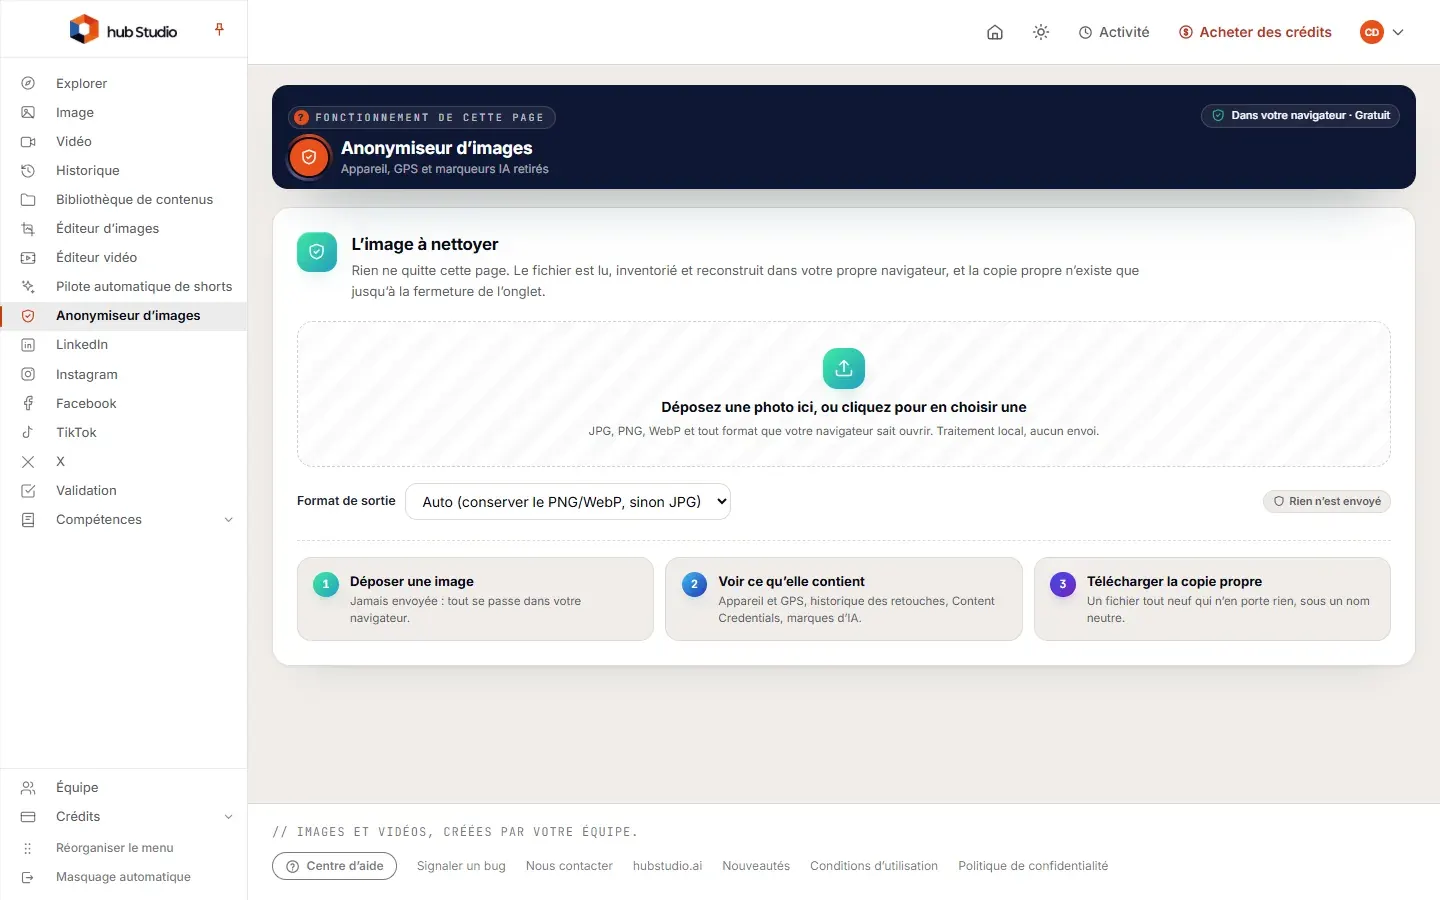
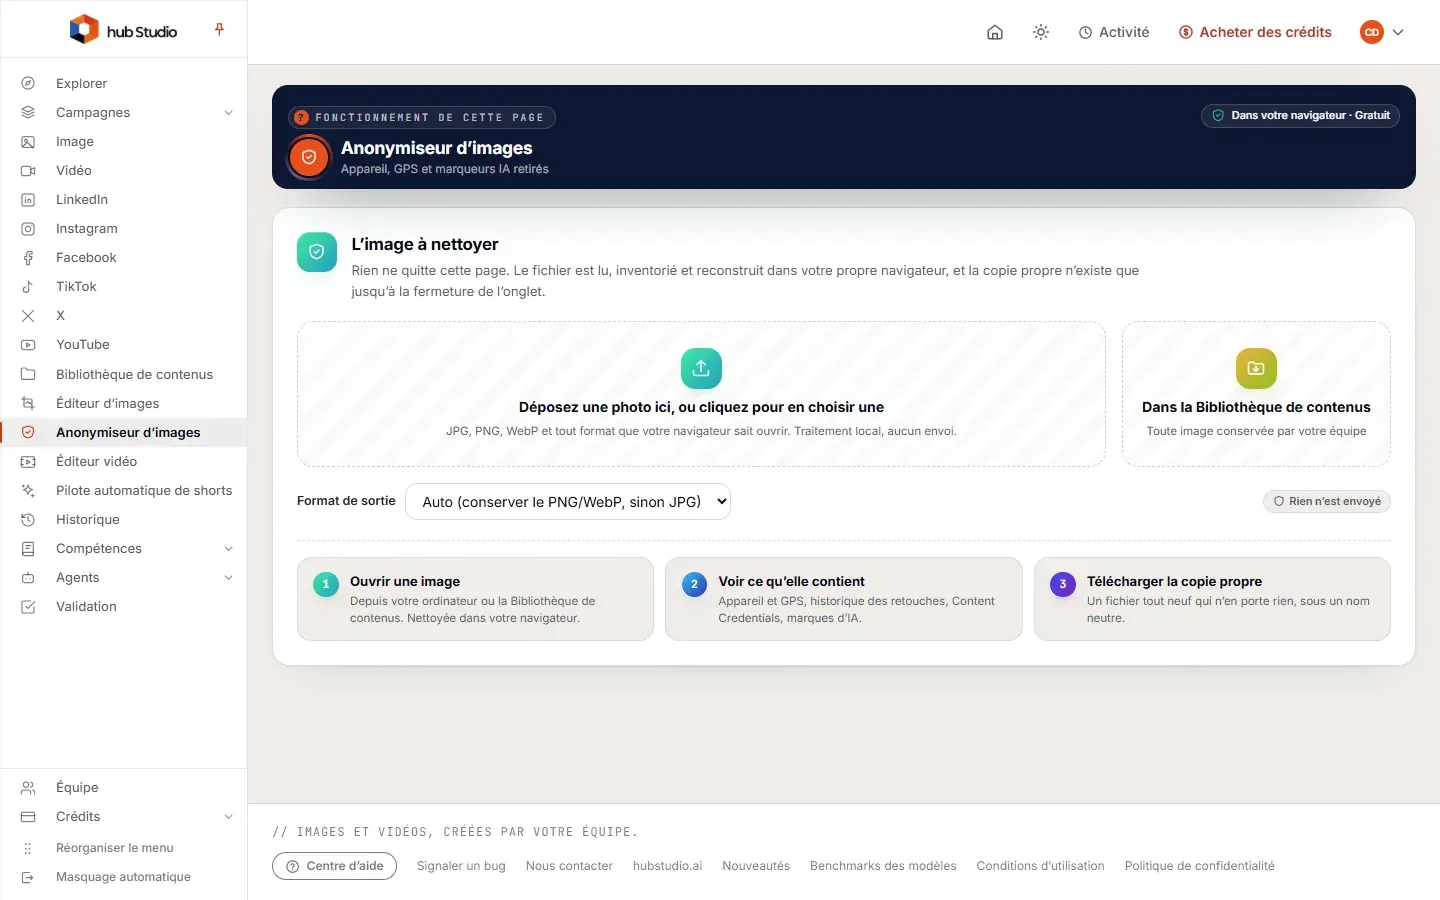
Help (EN/FR/ZH) synced from the app: Image anonymizer reads a picture from the Assets Library (capture retaken in the three languages); Attach the clean picture on LinkedIn, Facebook, Instagram and X posts. Outdated sentence versions dropped from the help dictionaries.

diff --git a/src/content/help/assets-library.md b/src/content/help/assets-library.md
@@ -26,7 +26,7 @@ shots:
     captured: 2026-10-08
   - file: "/Images/help/image-anonymizer-page.webp"
     route: "/files/tools/image-anonymizer"
-    alt: "Image anonymizer lit in the menu, its page open: the box to drop a picture, the Output format list, and the three steps Drop a picture, See what it carries and Download the clean copy"
+    alt: "Image anonymizer lit in the menu, its page open: the box to drop a picture and the From the Assets Library button beside it, the Output format list, and the three steps Open a picture, See what it carries and Download the clean copy"
     captured: 2026-10-02
   - file: "/Images/help/image-editor-social.webp"
     route: "/files/tools/image-editor"
@@ -153,9 +153,9 @@ The Image editor, the Video editor and the Image anonymizer run in your own brow
 
 **Image anonymizer** in the menu opens it.
 
-![Image anonymizer lit in the menu, its page open: the box to drop a picture, the Output format list, and the three steps Drop a picture, See what it carries and Download the clean copy](/Images/help/image-anonymizer-page.webp)
+![Image anonymizer lit in the menu, its page open: the box to drop a picture and the From the Assets Library button beside it, the Output format list, and the three steps Open a picture, See what it carries and Download the clean copy](/Images/help/image-anonymizer-page.webp)
 
-Drop a picture on the box, or click it to choose one. The tool first lists what is hidden inside the file: camera data, the place it was taken, editing records, content credentials and the tags AI engines write into their pictures. It then rebuilds the picture pixel by pixel into a new file that carries none of it, under a neutral file name.
+Drop a picture on the box, or click it to choose one. To clean a picture your team already keeps, click **From the Assets Library** next to the box and pick it there: it's read as it's stored, and the library copy never changes. The picker shows 15 pictures a page, newest first, with a search by name or tag and filters for where it came from, the brand, the folder and the date. The tool first lists what is hidden inside the file: camera data, the place it was taken, editing records, content credentials and the tags AI engines write into their pictures. It then rebuilds the picture pixel by pixel into a new file that carries none of it, under a neutral file name.
 
 Nothing is uploaded and nothing is kept: the clean copy exists only on the page until you download it. Leave the page and it's gone. The tool cleans what is written into the file, not the picture itself, so a watermark drawn in the pixels can survive. Only anonymize pictures you have the rights to use.
 

diff --git a/src/content/help/instagram.md b/src/content/help/instagram.md
@@ -79,6 +79,8 @@ The post is created the moment you render, pick or upload: until then nothing ex
 
 **Edit a picture.** Point at a picture of the post and click the pencil under the **×**, or click **Edit in the image editor** under the pictures (**Edit slide 1 in the image editor** on a carousel, whose every slide keeps its own pencil). The picture opens in the Image editor, on its **Social** panel set to Instagram: pick **Feed portrait**, **Square**, **Landscape**, **Story** or another placement, crop it or fit it whole over a blurred background, see what Instagram covers and how the profile grid shows it, then click **Apply the format**. You can also adjust its light and colors, write a caption, draw an arrow, or place your logo in a corner. Then click **Save** and **Save and use it in the post**: the edited copy takes the place of the picture in the post, in the same slide, as a new version, and the original stays in the versions and in the Assets Library. Editing is free. See [Edit a picture of a post](/help/assets-library#edit-a-picture-of-a-post).
 
+**The clean picture.** On a post with pictures, **Attach the clean picture** (**Attach the clean pictures** on a carousel), on the bar under the phone preview, takes the AI marks out of the picture files: the Content Credentials (the **CR** badge LinkedIn shows), and the tags the generator writes. Each marked picture is redrawn without them, saved to the Assets Library and put on the post in its place, as a new picture version. The pixels don't change, and the original stays in the versions. A picture with no AI mark is left as it is. It's free.
+
 ![The picture step of an Instagram post: Render again, Add from the library and Upload from your computer on the left, the post's picture on the right with the pencil under the cross](/Images/help/instagram-picture-edit.webp)
 
 **Edit the clip of a Reel.** The pencil on the clip, or **Edit in the video editor** under it, opens it in the [Video editor](/help/assets-library#the-video-editor), on its **Social** panel set to an Instagram **Reel**: pick **Reel**, **Story**, **Feed portrait** or **Square**, click **Apply the format**, see in red what Instagram covers and how the profile grid shows the cover, and read the checks. You can also trim and split it, change its speed, add texts, captions timed word by word and music, and pick its cover. **Save and use it in the post** puts the edited video in place of the clip, as a new version; the original stays in the versions and in the Assets Library. See [Edit the clip of a post](/help/assets-library#edit-the-clip-of-a-post).

diff --git a/src/content/help/facebook.md b/src/content/help/facebook.md
@@ -85,6 +85,8 @@ A picture takes a minute or two, a clip a few minutes. The run shows in **Activi
 
 **Edit a picture.** Point at a picture of the post and click the pencil under the **×**, or click **Edit in the image editor** under the pictures (**Edit slide 1 in the image editor** when there are several, each keeping its own pencil). The picture opens in the Image editor: crop it to **Link** (1.91:1) or **Square**, adjust its light and colors, write a caption, draw an arrow, or place your logo in a corner. Then click **Save** and **Save and use it in the post**: the edited copy takes the place of the picture in the post, in the same slide, as a new version, and the original stays in the versions and in the Assets Library. Editing is free. See [Edit a picture of a post](/help/assets-library#edit-a-picture-of-a-post).
 
+**The clean picture.** On a post with pictures, **Attach the clean picture** (**Attach the clean pictures** on a carousel), on the bar under the phone preview, takes the AI marks out of the picture files: the Content Credentials (the **CR** badge LinkedIn shows), and the tags the generator writes. Each marked picture is redrawn without them, saved to the Assets Library and put on the post in its place, as a new picture version. The pixels don't change, and the original stays in the versions. A picture with no AI mark is left as it is. It's free.
+
 **Edit the clip.** On a video post, the pencil on the clip, or **Edit in the video editor** under it, opens it in the [Video editor](/help/assets-library#the-video-editor), on its **Social** panel set to a Facebook **Reel**: every Facebook video is shared as a reel. Pick **Reel**, **Story**, **Feed portrait** or **Square**, click **Apply the format**, see in red what Facebook covers, and read the checks. You can also trim it, add texts, captions timed word by word and music. **Save and use it in the post** puts the edited video in place of the clip, as a new version; the original stays in the versions and in the Assets Library. Editing is free; only the fast captions are billed, at the price shown before you start. See [Edit the clip of a post](/help/assets-library#edit-the-clip-of-a-post).
 
 Facebook takes up to 10 pictures a post (JPG, PNG or GIF, up to 10 MB each), or one MP4 or MOV clip of up to 20 minutes.

diff --git a/src/content/help/x.md b/src/content/help/x.md
@@ -96,6 +96,8 @@ A picture takes a minute or two. The run shows in **Activity**, and the post kee
 
 **Edit a picture.** Point at a picture of the post and click the pencil under the **×**, or click **Edit in the image editor** under the pictures (**Edit slide 1 in the image editor** when there are several, each keeping its own pencil). The picture opens in the Image editor, on its **Social** panel set to X: pick **Post, wide** (16:9, shown whole), **Post, square**, **Post, portrait** or **One of two**, crop it or fit it whole over a blurred background, see how X crops it beside other pictures, then click **Apply the format**. You can also adjust its light and colors, write a caption, draw an arrow, or place your logo in a corner. Then click **Save** and **Save and use it in the post**: the edited copy takes the place of the picture in the post, in the same slide, as a new version, and the original stays in the versions and in the Assets Library. Editing is free. See [Edit a picture of a post](/help/assets-library#edit-a-picture-of-a-post).
 
+**The clean picture.** On a post with pictures, **Attach the clean picture** (**Attach the clean pictures** on a carousel), on the bar under the phone preview, takes the AI marks out of the picture files: the Content Credentials (the **CR** badge LinkedIn shows), and the tags the generator writes. Each marked picture is redrawn without them, saved to the Assets Library and put on the post in its place, as a new picture version. The pixels don't change, and the original stays in the versions. A picture with no AI mark is left as it is. It's free.
+
 X takes JPG, PNG, WebP and GIF pictures up to 5 MB each. An animated GIF (up to 15 MB) goes out alone, as the only picture of its post.
 
 ## Made for a client

diff --git a/src/content/help/linkedin.md b/src/content/help/linkedin.md
@@ -85,6 +85,8 @@ A picture takes a minute or two. The run shows in **Activity**, and the post kee
 
 **Edit a picture.** Point at a picture of the post and click the pencil under the **×**, or click **Edit in the image editor** under the pictures (**Edit slide 1 in the image editor** when there are several, each keeping its own pencil). The picture opens in the Image editor, on its **Social** panel set to LinkedIn: pick **Post, portrait** (the one that takes the most room on phones), **Post, square** or **Post, landscape**, crop it or fit it whole over a blurred background, then click **Apply the format**. The panel checks the size, the file and the words before you save. You can also adjust its light and colors, write a caption, draw an arrow, or place your logo in a corner. Then click **Save** and **Save and use it in the post**: the edited copy takes the place of the picture in the post, in the same slide, as a new version, and the original stays in the versions and in the Assets Library. Editing is free. See [Edit a picture of a post](/help/assets-library#edit-a-picture-of-a-post).
 
+**The clean picture.** On a post with pictures, **Attach the clean picture** (**Attach the clean pictures** on a carousel), on the bar under the phone preview, takes the AI marks out of the picture files: the Content Credentials LinkedIn shows as a **CR** badge, and the tags the generator writes. Each marked picture is redrawn without them, saved to the Assets Library and put on the post in its place, as a new picture version. The pixels don't change, and the original stays in the versions. A picture with no AI mark is left as it is. It's free.
+
 LinkedIn takes JPG, PNG and GIF pictures, not WebP, up to 10 MB each.
 
 ## Made for a client
